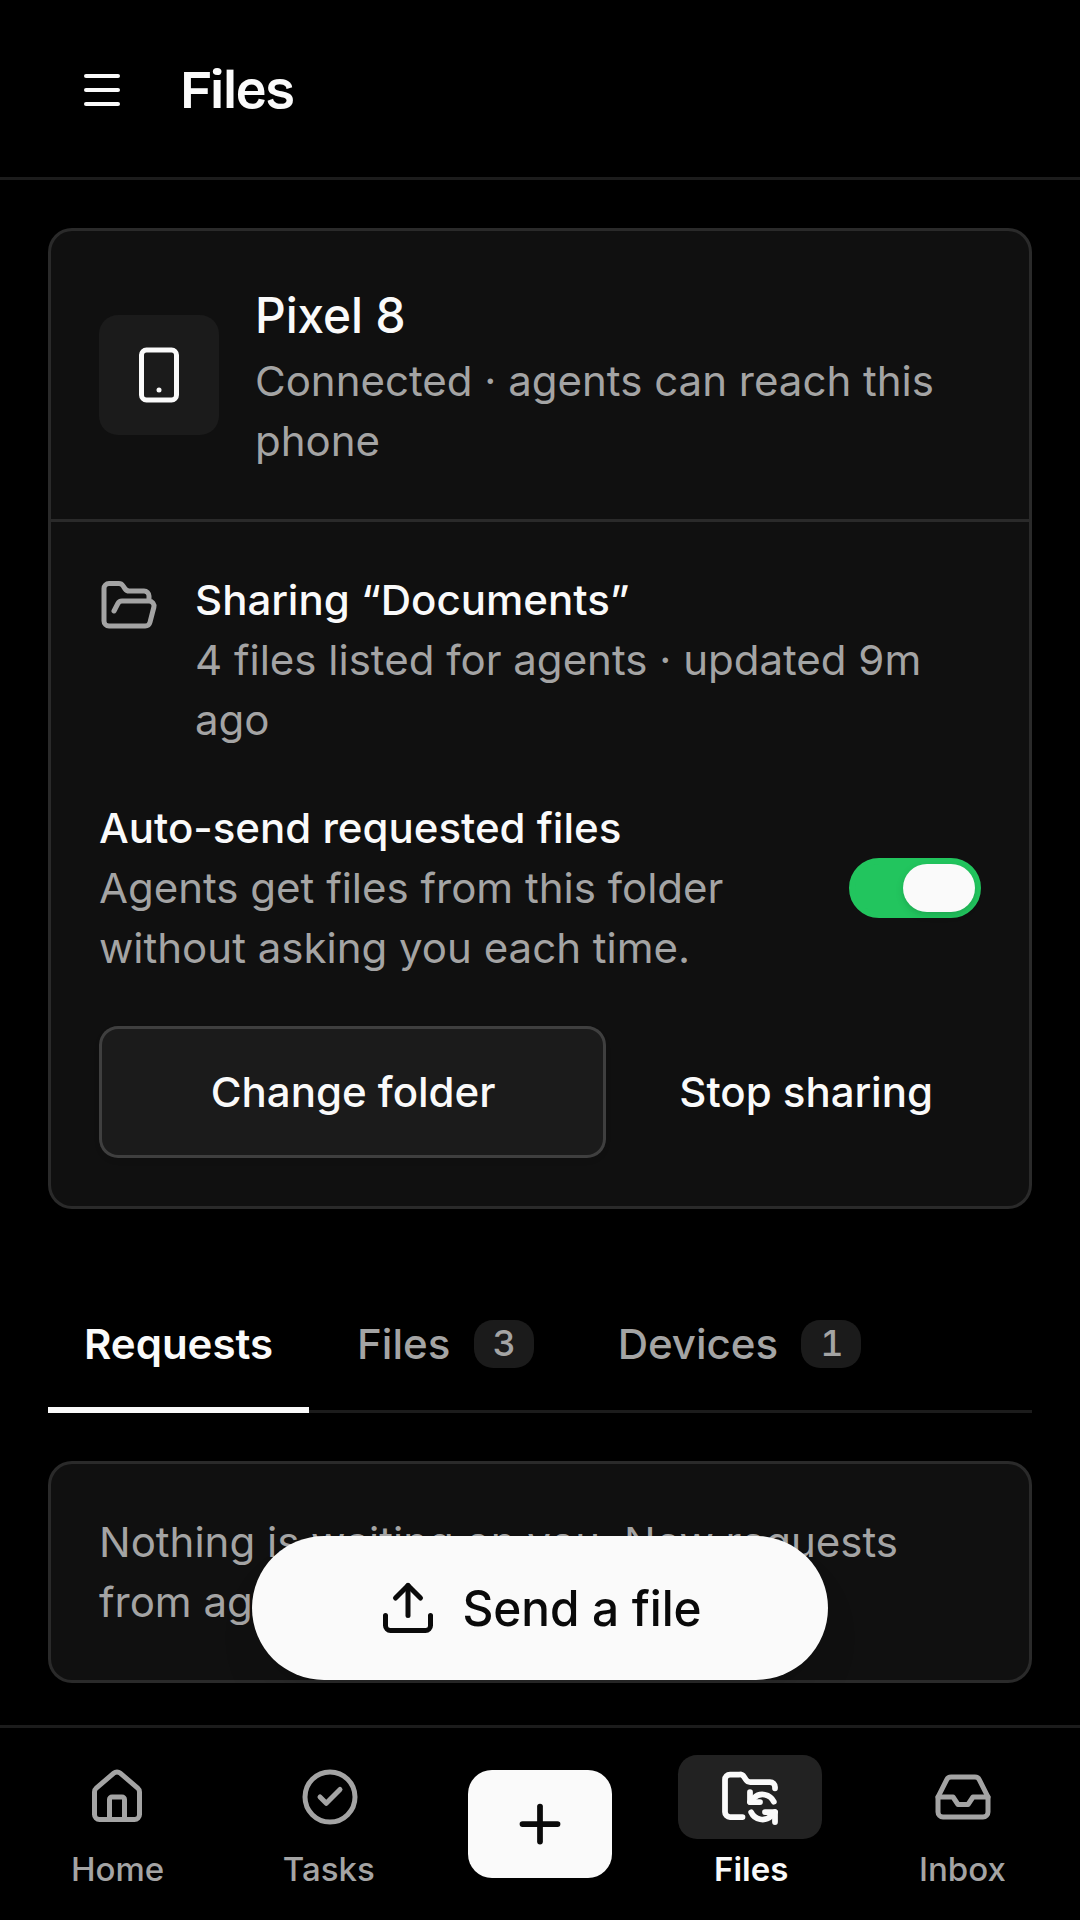
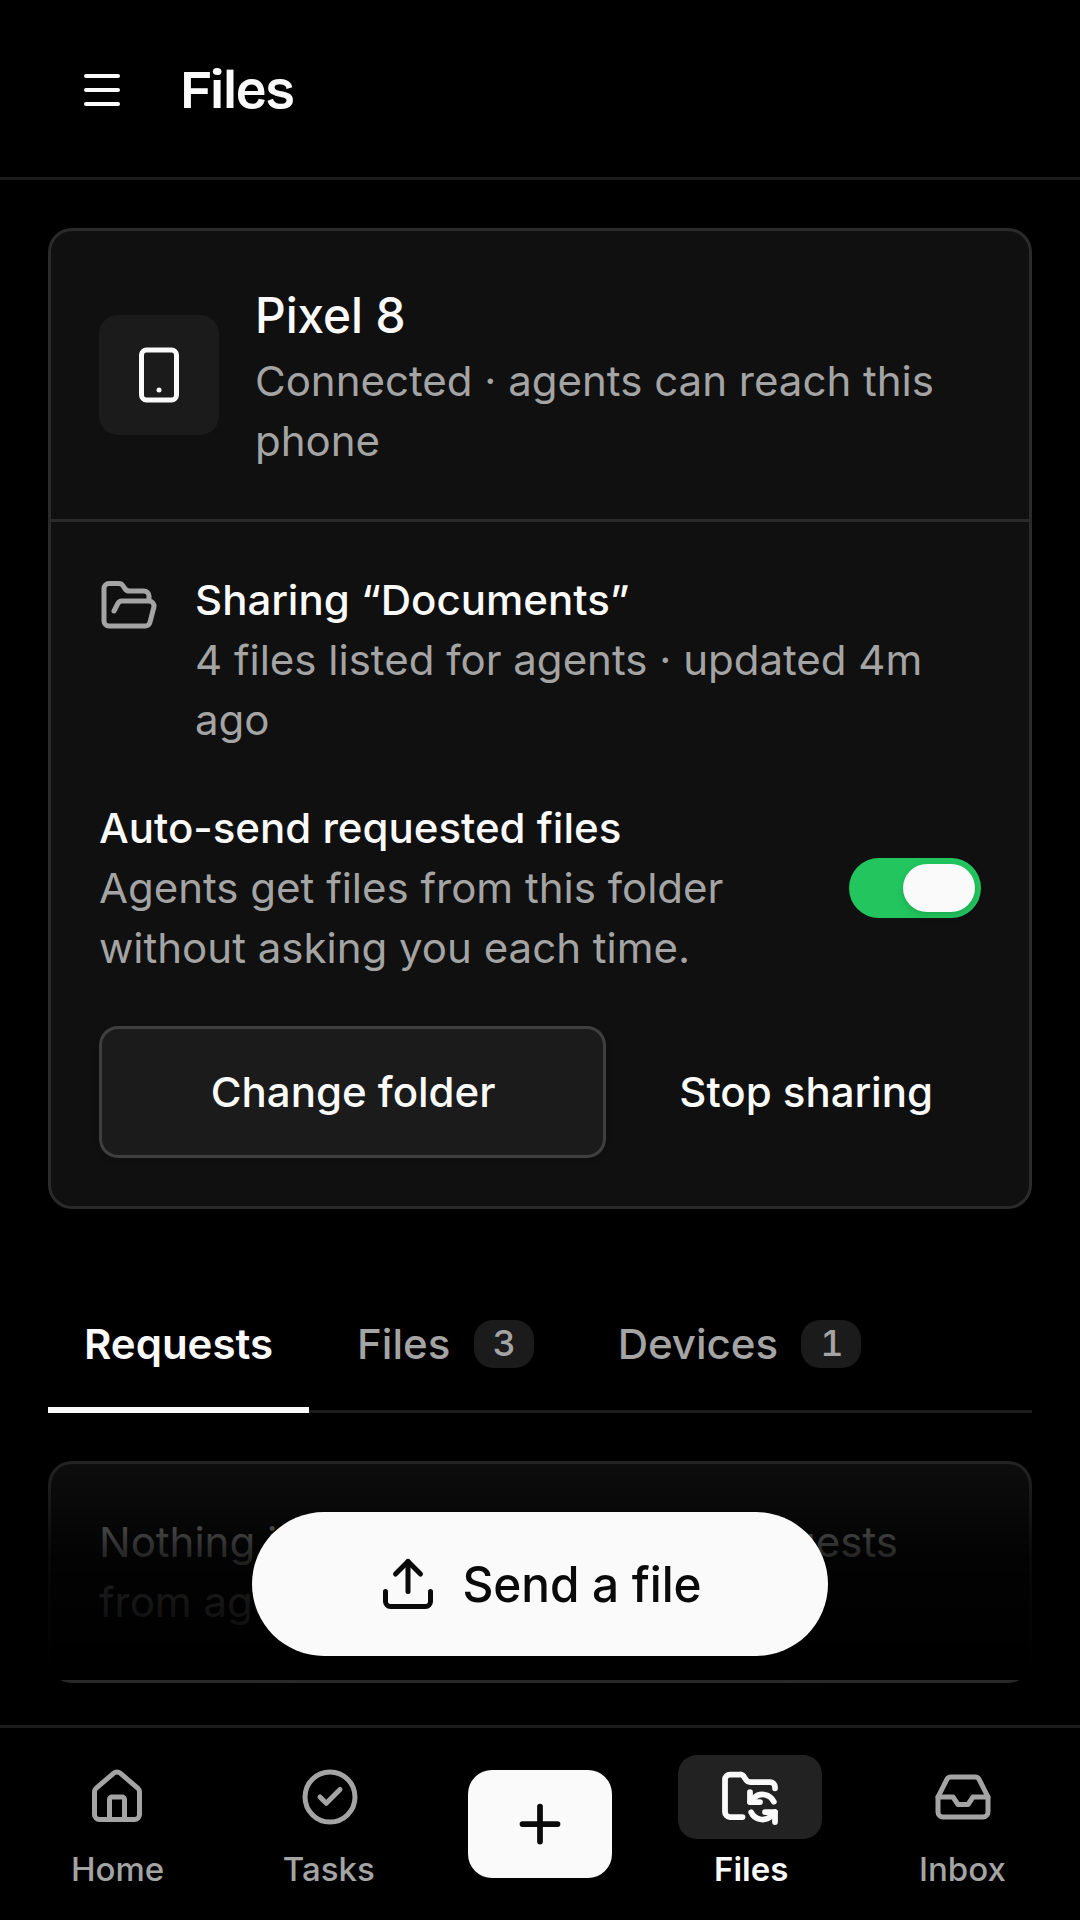
feat(ui): fade content behind the thumb action; refresh affected store shots
Claude-Session: https://claude.ai/code/session_01LXVQb1cvekKCG611cz9DaU

Changed region(s): [[0.0917, 0.7812, 0.825, 0.875], [0.7944, 0.3125, 0.825, 0.375], [0.0306, 0.8438, 0.0611, 0.875]]

diff --git a/ui/src/components/ThumbAction.tsx b/ui/src/components/ThumbAction.tsx
@@ -13,8 +13,9 @@ interface ThumbActionProps {
  * A page's primary create action on phones, placed where the thumb already
  * rests: a large, centered button floating just above the tab bar (the
  * "thumb zone"), instead of a small button in the header at the top. It sits
- * on the tab-bar rung of the depth ladder and leaves a spacer in the page
- * flow so the last row is never hidden behind it.
+ * on the tab-bar rung of the depth ladder, fades the content scrolling
+ * behind it, and leaves a spacer in the page flow so the last row is never
+ * hidden behind it.
  *
  * On md+ screens it renders nothing; keep the header button there, where a
  * mouse reaches it just as easily, and hide that header button below md
@@ -24,7 +25,7 @@ export function ThumbAction({ label, onClick, icon: Icon = Plus, disabled = fals
   return (
     <>
       <div aria-hidden="true" className="h-16 md:hidden" />
-      <div className="pointer-events-none fixed inset-x-0 bottom-(--sz-calc-14) z-30 flex justify-center px-4 md:hidden">
+      <div className="pointer-events-none fixed inset-x-0 bottom-(--sz-calc-14) z-30 flex justify-center bg-linear-to-t from-background via-background/80 to-transparent px-4 pt-6 pb-2 md:hidden">
         <Button
           size="lg"
           disabled={disabled}
